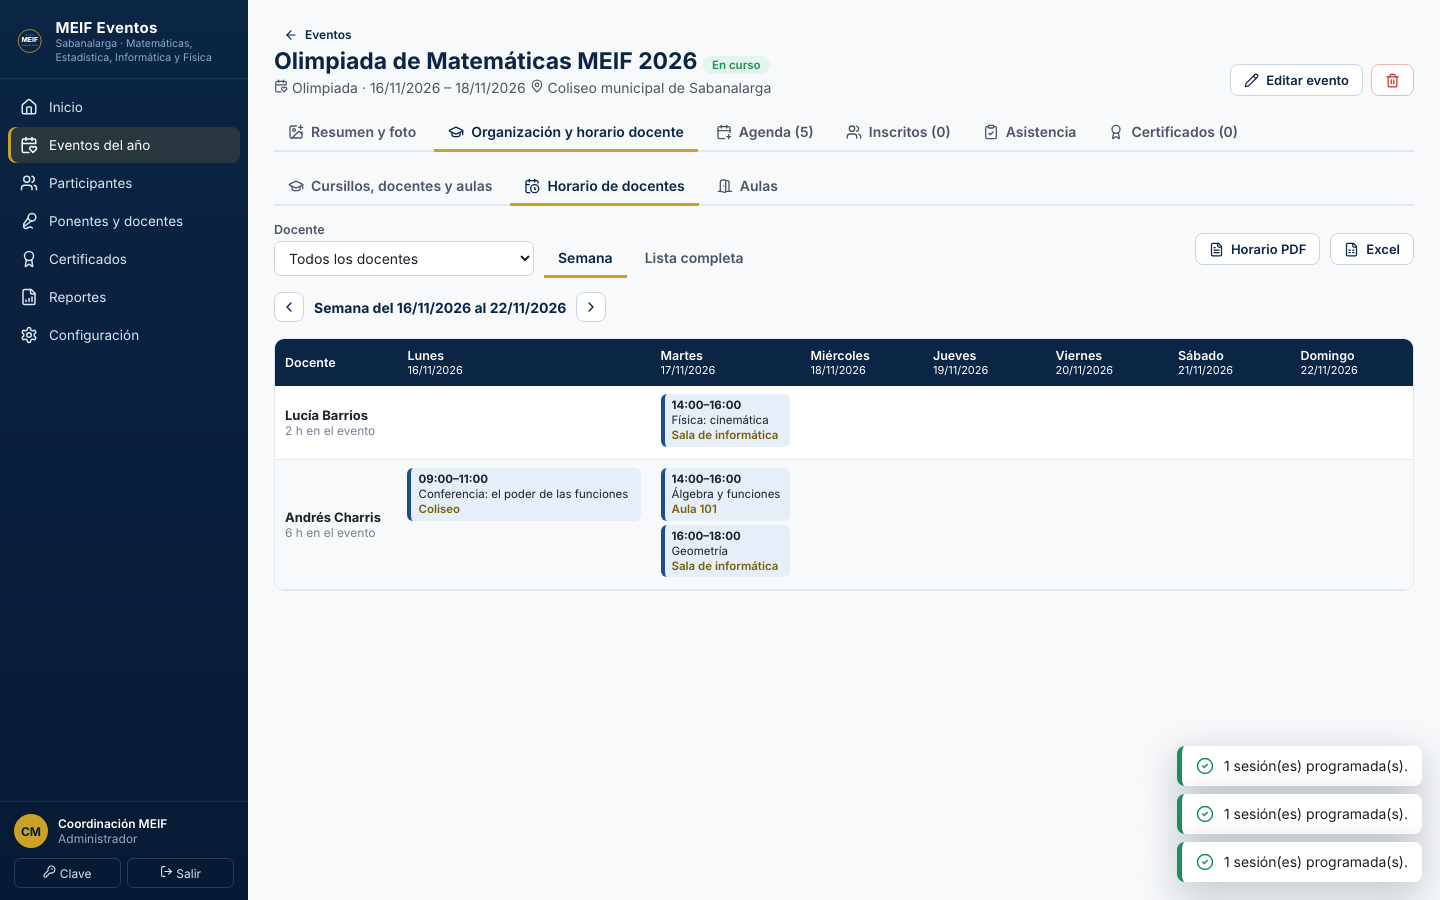
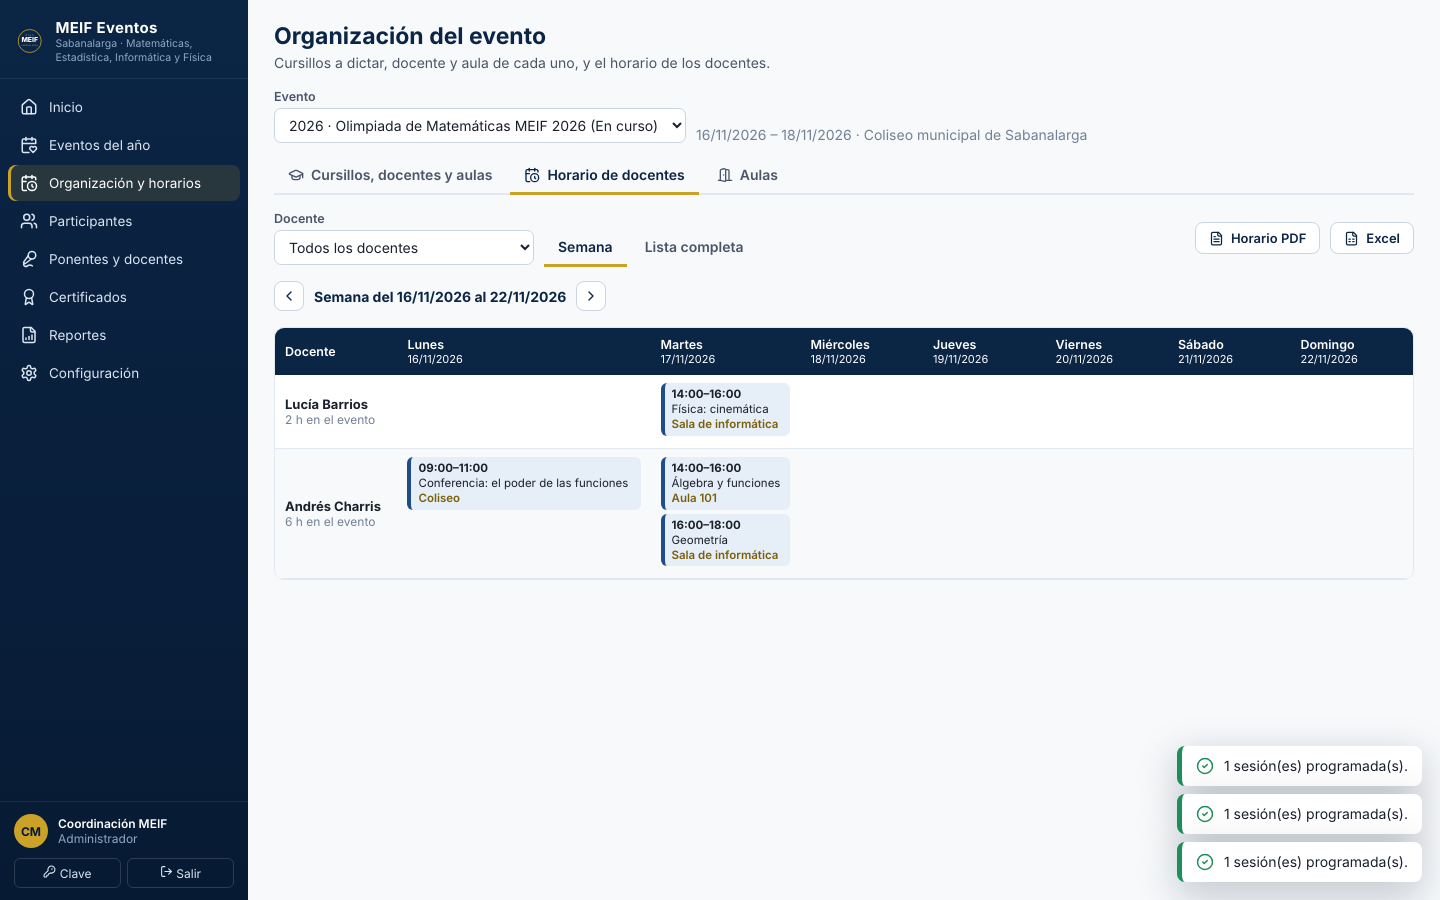
MEIF Eventos: menú «Organización y horarios» y horario PDF más legible
Claude-Session: https://claude.ai/code/session_01FE2eiCK9maC6rCiKEdVsvV

diff --git a/eventos/electron/pdf/reporte.ts b/eventos/electron/pdf/reporte.ts
@@ -30,16 +30,22 @@ export function generarReportePdf(destino: string, r: Reporte, config: Record<st
   const ancho = W - 72;
 
   // Ancho de columnas: proporcional al contenido (muestra de filas), con mínimo.
-  const pesos = r.columnas.map((c) => {
-    if (c.ancho) return c.ancho;
+  // El mínimo de cada columna es su palabra más larga (encabezado o contenido): nunca se parte una palabra.
+  const PAD = 8;
+  const muestra = r.filas.slice(0, 300);
+  const pesos: number[] = [];
+  const minimos: number[] = [];
+  for (const c of r.columnas) {
+    if (c.ancho) { pesos.push(c.ancho); minimos.push(c.ancho); continue; }
     doc.font('Helvetica-Bold').fontSize(8);
-    // Nunca partir una palabra del encabezado.
-    const palabra = Math.max(...texto(c.label).split(/\s+/).map((w) => doc.widthOfString(w))) + 8;
+    const palabraCab = Math.max(...texto(c.label).split(/\s+/).map((w) => doc.widthOfString(w))) + PAD;
     doc.font('Helvetica').fontSize(8);
-    const m = Math.max(...[c.label, ...r.filas.slice(0, 200).map((f) => fmt(f[c.key]))].map((s) => Math.min(doc.widthOfString(s), 220)));
-    return Math.max(m, palabra, 30);
-  });
-  const minimos = pesos.map((p, i) => (r.columnas[i].ancho ? p : Math.min(p, 70)));
+    const valores = muestra.map((f) => fmt(f[c.key]));
+    const completo = Math.max(0, ...valores.map((v) => Math.min(doc.widthOfString(v), 220))) + PAD;
+    const palabraCont = Math.min(110, Math.max(0, ...valores.flatMap((v) => v.split(/\s+/).map((w) => doc.widthOfString(w)))) + PAD);
+    pesos.push(Math.max(completo, palabraCab, 30));
+    minimos.push(Math.max(Math.min(completo, 70), palabraCab, palabraCont, 30));
+  }
   // Reparte el ancho: cada columna recibe su mínimo y el resto en proporción al contenido.
   const sumaMin = minimos.reduce((a, b) => a + b, 0);
   const extra = pesos.map((p, i) => p - minimos[i]);
@@ -94,7 +100,7 @@ export function generarReportePdf(destino: string, r: Reporte, config: Record<st
   if (!r.filas.length) {
     doc.font('Helvetica-Oblique').fontSize(9).fillColor('#4A5568').text('No hay registros para los filtros seleccionados.', 36, y + 10);
   }
-  r.filas.forEach((f, i) => dibujarFila(f, i));
+  r.filas.forEach((f, i) => dibujarFila(f, i, !!f._negrita));
   if (r.totales) dibujarFila(r.totales, 0, true);
 
   // Pie de página con numeración

diff --git a/eventos/src/pages/Organizacion.tsx b/eventos/src/pages/Organizacion.tsx
@@ -271,3 +271,40 @@ export function OrganizacionEvento({ evento, onCambio }: { evento: any; onCambio
     </>
   );
 }
+
+/** Página del menú «Organización del evento»: elegir el evento y organizar cursillos, docentes, aulas y horario. */
+export function Organizacion({ parametros }: { parametros?: any }) {
+  const { intentar } = useApp();
+  const [eventos, setEventos] = useState<any[]>([]);
+  const [id, setId] = useState<number | ''>(parametros?.eventoId ?? '');
+  const [k, setK] = useState(0);
+  useEffect(() => {
+    intentar(() => api('datos.listar', { modelo: 'eventos', filtro: {} })).then((r) => {
+      if (!r) return;
+      setEventos(r);
+      // Por defecto: el evento en curso o el próximo; si no, el más reciente.
+      if (!id && r.length) {
+        const hoy = new Date().toISOString().slice(0, 10);
+        const actual = r.find((e: any) => e.estado === 'En curso') ?? [...r].reverse().find((e: any) => e.fecha_fin >= hoy && e.estado !== 'Cancelado') ?? r[0];
+        setId(actual.id);
+      }
+    });
+  }, [intentar, k]); // eslint-disable-line react-hooks/exhaustive-deps
+  const evento = eventos.find((e) => e.id === id);
+  return (
+    <>
+      <div className="pagina-cab"><div><h1>Organización del evento</h1>
+        <p>Cursillos a dictar, docente y aula de cada uno, y el horario de los docentes.</p></div></div>
+      <div className="barra-filtros">
+        <div className="campo" style={{ minWidth: 380 }}><label htmlFor="o-evento">Evento</label>
+          <select id="o-evento" value={id} onChange={(e) => setId(e.target.value ? Number(e.target.value) : '')}>
+            <option value="">— Seleccione el evento —</option>
+            {eventos.map((e) => <option key={e.id} value={e.id}>{e.anio} · {e.nombre} ({e.estado})</option>)}
+          </select></div>
+        {evento && <span className="suave">{fmtFecha(evento.fecha_inicio)} – {fmtFecha(evento.fecha_fin)}{evento.lugar ? ` · ${evento.lugar}` : ''}</span>}
+      </div>
+      {evento ? <OrganizacionEvento key={evento.id} evento={evento} onCambio={() => setK((x) => x + 1)} />
+        : <Vacio texto={eventos.length ? 'Seleccione un evento para organizarlo.' : 'Primero cree un evento en «Eventos del año».'} icono={<GraduationCap size={36} />} />}
+    </>
+  );
+}

diff --git a/eventos/src/App.tsx b/eventos/src/App.tsx
@@ -1,6 +1,6 @@
 /** Estructura principal: menú lateral y páginas. */
 import { useState, type ComponentType } from 'react';
-import { Award, CalendarHeart, FileBarChart, Home, KeyRound, Loader2, LogOut, Mic2, Settings, Users, type LucideIcon } from 'lucide-react';
+import { Award, CalendarClock, CalendarHeart, FileBarChart, Home, KeyRound, Loader2, LogOut, Mic2, Settings, Users, type LucideIcon } from 'lucide-react';
 import { api } from './api';
 import { Logo } from './components/ui';
 import { useApp } from './estado';
@@ -9,15 +9,17 @@ import { Certificados } from './pages/Certificados';
 import { Configuracion } from './pages/Configuracion';
 import { Eventos } from './pages/Eventos';
 import { Inicio } from './pages/Inicio';
+import { Organizacion } from './pages/Organizacion';
 import { Participantes, Ponentes } from './pages/Personas';
 import { Reportes } from './pages/Reportes';
 
 export type Ir = (pagina: Pagina, parametros?: any) => void;
-type Pagina = 'inicio' | 'eventos' | 'participantes' | 'ponentes' | 'certificados' | 'reportes' | 'configuracion';
+type Pagina = 'inicio' | 'eventos' | 'organizacion' | 'participantes' | 'ponentes' | 'certificados' | 'reportes' | 'configuracion';
 
 const MENU: { id: Pagina; nombre: string; icono: LucideIcon; pagina: ComponentType<{ ir: Ir; parametros?: any }> }[] = [
   { id: 'inicio', nombre: 'Inicio', icono: Home, pagina: Inicio },
   { id: 'eventos', nombre: 'Eventos del año', icono: CalendarHeart, pagina: Eventos },
+  { id: 'organizacion', nombre: 'Organización y horarios', icono: CalendarClock, pagina: Organizacion },
   { id: 'participantes', nombre: 'Participantes', icono: Users, pagina: Participantes },
   { id: 'ponentes', nombre: 'Ponentes y docentes', icono: Mic2, pagina: Ponentes },
   { id: 'certificados', nombre: 'Certificados', icono: Award, pagina: Certificados },

diff --git a/eventos/electron/services/reportes.ts b/eventos/electron/services/reportes.ts
@@ -62,13 +62,13 @@ export const REPORTES: { id: string; nombre: string; filtro: 'evento' | 'anio'; 
       const filas: Record<string, any>[] = [];
       let actual = '';
       let subtotal = 0;
-      const cerrar = () => { if (actual) filas.push({ docente: `Total ${actual}`, horas: redondear(subtotal) }); };
+      const cerrar = () => { if (actual) filas.push({ docente: `Total ${actual}`, horas: redondear(subtotal), _negrita: true }); };
       for (const s of sesiones) {
         if (s.docente !== actual) { cerrar(); actual = s.docente; subtotal = 0; }
         if (s.tipo !== 'Receso') subtotal += s.horas;
         filas.push({
           docente: s.docente, cursillo: s.cursillo, nivel: s.nivel, aula: s.aula, dia: dias[new Date(s.fecha + 'T12:00').getDay()],
-          fecha: s.fecha, hora: `${s.hora_inicio} – ${s.hora_fin}`, horas: s.horas,
+          fecha: s.fecha.split('-').reverse().join('/'), hora: `${s.hora_inicio}–${s.hora_fin}`, horas: s.horas,
         });
       }
       cerrar();

diff --git a/eventos/docs/MANUAL_USUARIO.md b/eventos/docs/MANUAL_USUARIO.md
@@ -25,7 +25,7 @@
 
 ## 4. Organización y horario de los docentes
 
-En el evento, pestaña **Organización y horario docente**:
+Desde el menú lateral **Organización y horarios** (elija el evento arriba) o, dentro del evento, en la pestaña **Organización y horario docente**:
 
 1. **Aulas**: registre las aulas y espacios (nombre, capacidad, ubicación, recursos). Son comunes a todos los eventos.
 2. **Cursillos, docentes y aulas › Nuevo cursillo**: nombre del cursillo, área, nivel o grupo,
